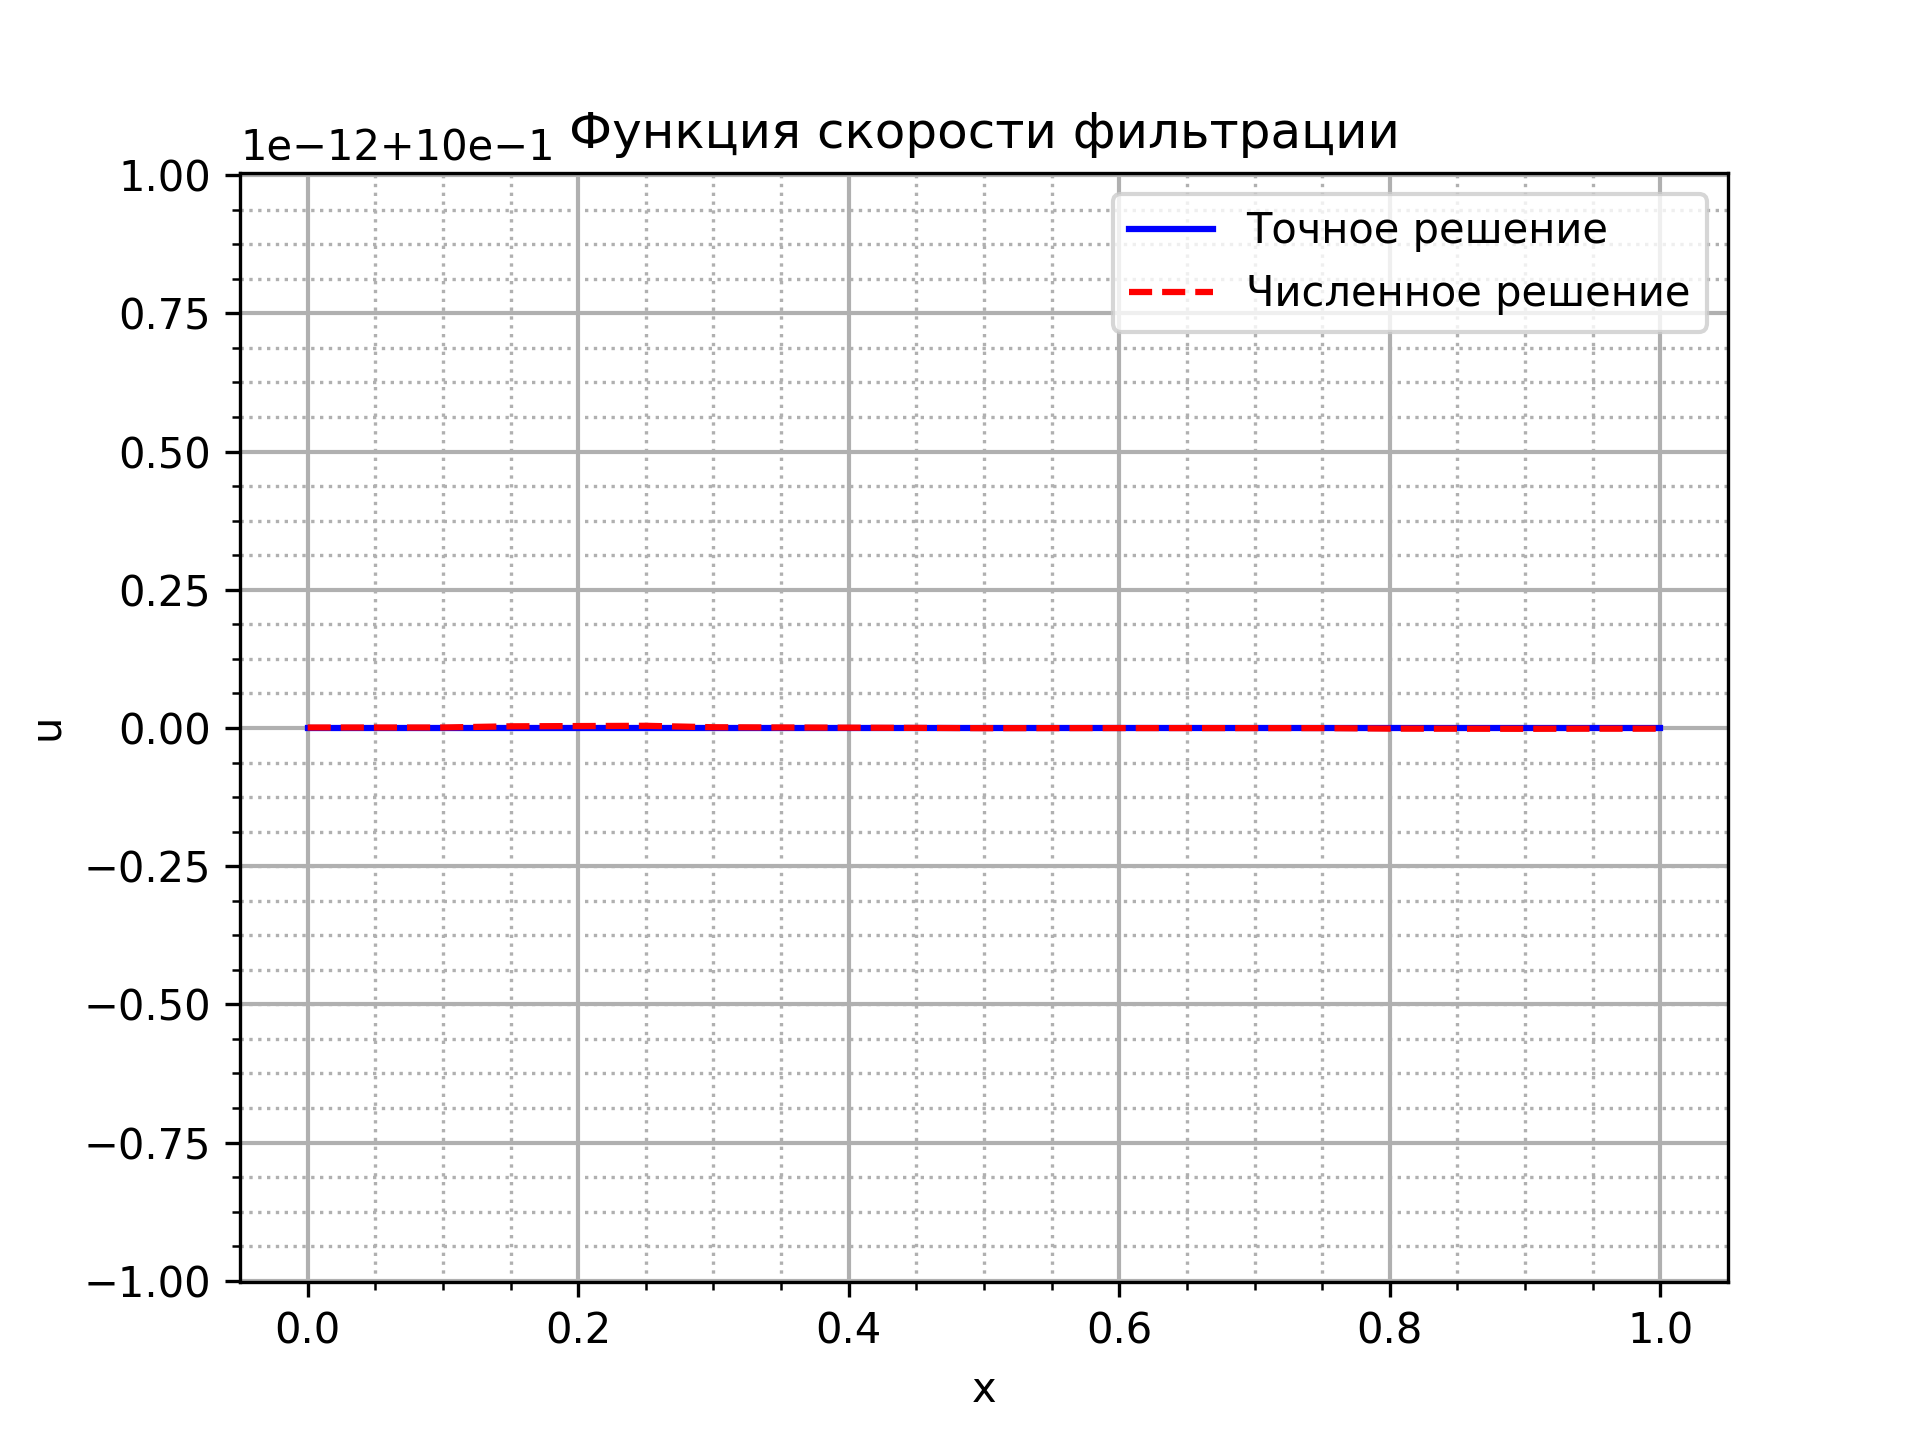
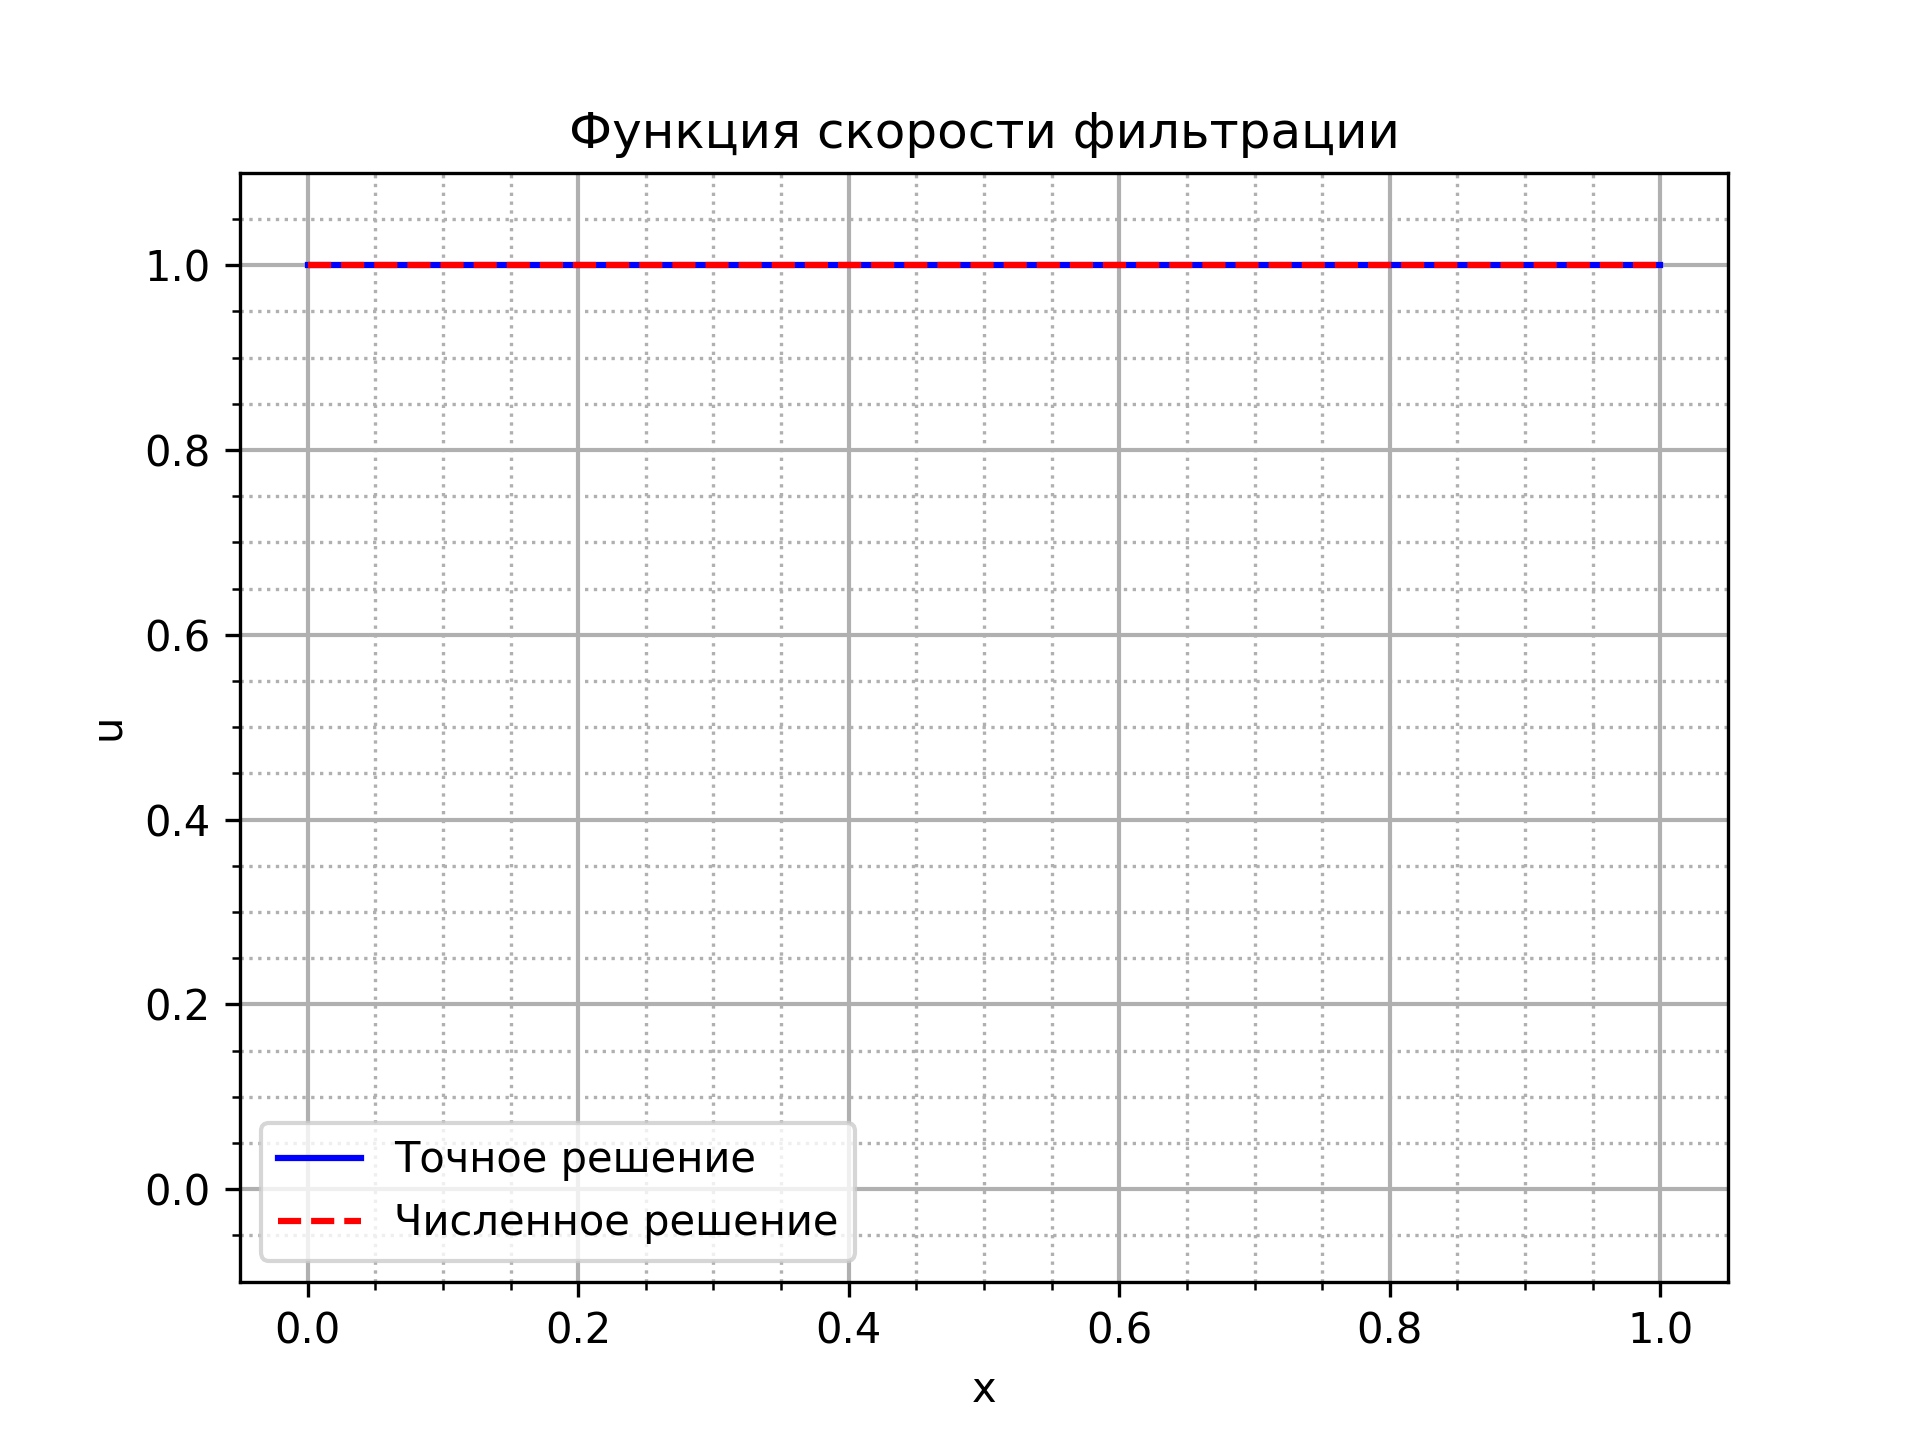
аналитические функции + графики

diff --git a/Задание 1.2/main.py b/Задание 1.2/main.py
@@ -1,7 +1,7 @@
 import numpy as np
 from matplotlib import pyplot as plt
 
-task_number = 2
+task_number = 1
 
 
 def p_analit_1(x):
@@ -21,7 +21,7 @@ def u_analit_2(x):
 
 
 def p_analit_3(x):
-    return 2 / 11 * x + 1 if x < 0.75 else -38 / 11 * x + 38 / 11
+    return -2 / 11 * x + 1 if x < 0.75 else -38 / 11 * x + 38 / 11
 
 
 def u_analit_3(x):
@@ -51,7 +51,7 @@ def define_type_x(xx):
 
 
 # Разбиение минимальной зоны
-N_min = 5
+N_min = 2
 
 # Кол-во зон и их границы
 with open('zone_info.txt', 'r') as file:
@@ -153,6 +153,8 @@ plt.ylabel('p')
 plt.minorticks_on()
 plt.grid(which='major', linewidth=1)
 plt.grid(which='minor', linestyle=':')
+plt.grid(which='minor', linestyle=':')
+plt.ylim([-0.1, 1.1])
 name_p_file = f'Функция давления (задание {task_number}).png'
 plt.savefig(name_p_file, dpi=300)
 
@@ -167,5 +169,7 @@ plt.ylabel('u')
 plt.minorticks_on()
 plt.grid(which='major', linewidth=1)
 plt.grid(which='minor', linestyle=':')
+plt.grid(which='minor', linestyle=':')
+plt.ylim([-0.1, 1.1])
 name_u_file = f'Функция скорости фильтрации (задание {task_number}).png'
 plt.savefig(name_u_file, dpi=300)

diff --git a/Задание 1.1/main.py b/Задание 1.1/main.py
@@ -66,6 +66,7 @@ plt.ylabel('p')
 plt.minorticks_on()
 plt.grid(which='major', linewidth=1)
 plt.grid(which='minor', linestyle=':')
+plt.ylim([-0.1, 1.1])
 plt.savefig('Функция давления.png', dpi=300)
 
 plt.figure(2)
@@ -79,6 +80,8 @@ plt.ylabel('u')
 plt.minorticks_on()
 plt.grid(which='major', linewidth=1)
 plt.grid(which='minor', linestyle=':')
+plt.grid(which='minor', linestyle=':')
+plt.ylim([-0.1, 1.1])
 plt.savefig('Функция скорости фильтрации.png', dpi=300)
 
 # Перерасчет на реальные величины
